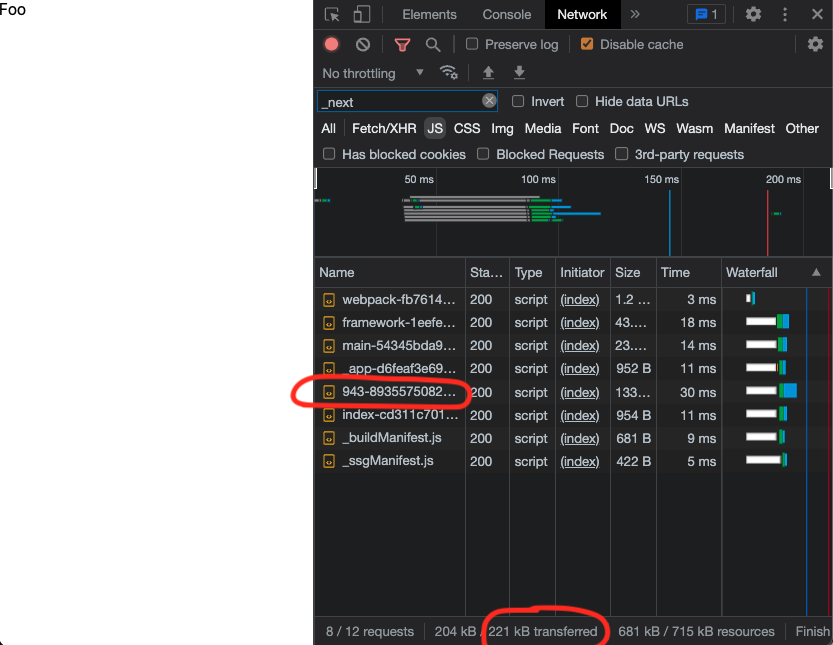
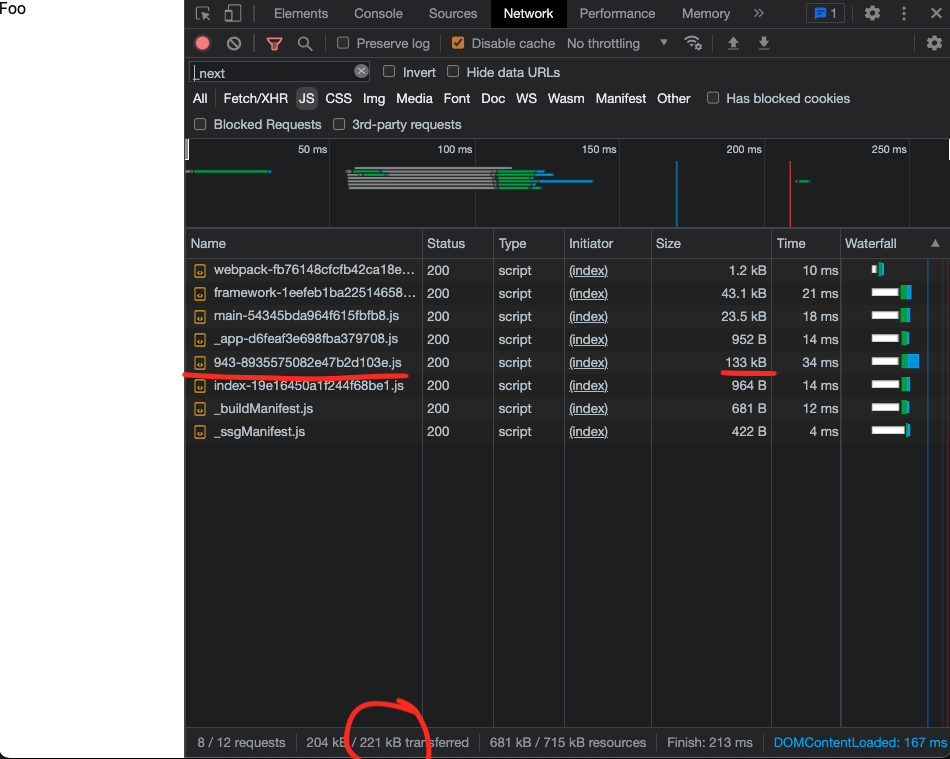
Fix bug - now bundle size increases! (again)

diff --git a/components/getComponent.tsx b/components/getComponent.tsx
@@ -5,6 +5,7 @@ import { componentType as FooType } from "./Foo";
 import { componentType as IconsType } from "./Icons";
 
 const Foo = dynamic(() => import("./Foo"));
+const Icons = dynamic(() => import("./Icons"));
 
 export function getComponent(type: string): ComponentType<any> {
   switch (type) {
@@ -12,7 +13,7 @@ export function getComponent(type: string): ComponentType<any> {
       return Foo;
 
     case IconsType:
-      return Foo; // this is a bug!
+      return Icons;
 
     default:
       throw Error(`Dont have component type ${type}`);

diff --git a/README.md b/README.md
@@ -138,11 +138,20 @@ Ah, of course, that's because we have that bug. Let's fix that.
 ## Fixing the bug
 
 ```diff
-       return dynamic(import("./Foo"));
+ import { componentType as IconsType } from "./Icons";
+
+ const Foo = dynamic(() => import("./Foo"));
++const Icons = dynamic(() => import("./Icons"));
+
+ export function getComponent(type: string): ComponentType<any> {
+   switch (type) {
+(1/2) Stage this hunk [y,n,q,a,d,j,J,g,/,e,?]? y
+@@ -12,7 +13,7 @@ export function getComponent(type: string): ComponentType<any> {
+       return Foo;
 
      case IconsType:
--      return dynamic(import("./Foo")); // this is a bug!
-+      return dynamic(import("./Icons"));
+-      return Foo; // this is a bug!
++      return Icons;
 
      default:
        throw Error(`Dont have component type ${type}`);
@@ -158,8 +167,6 @@ We can see the chunk with all the icons is back, now it's called
 But wait, it's included in our bundle!
 
 ![Final Browser](/demo-images/final-browser.png)
-
-And now all our performance metrics are worse.
 
 | Metric               | Value       |
 | -----------          | ----------- |
